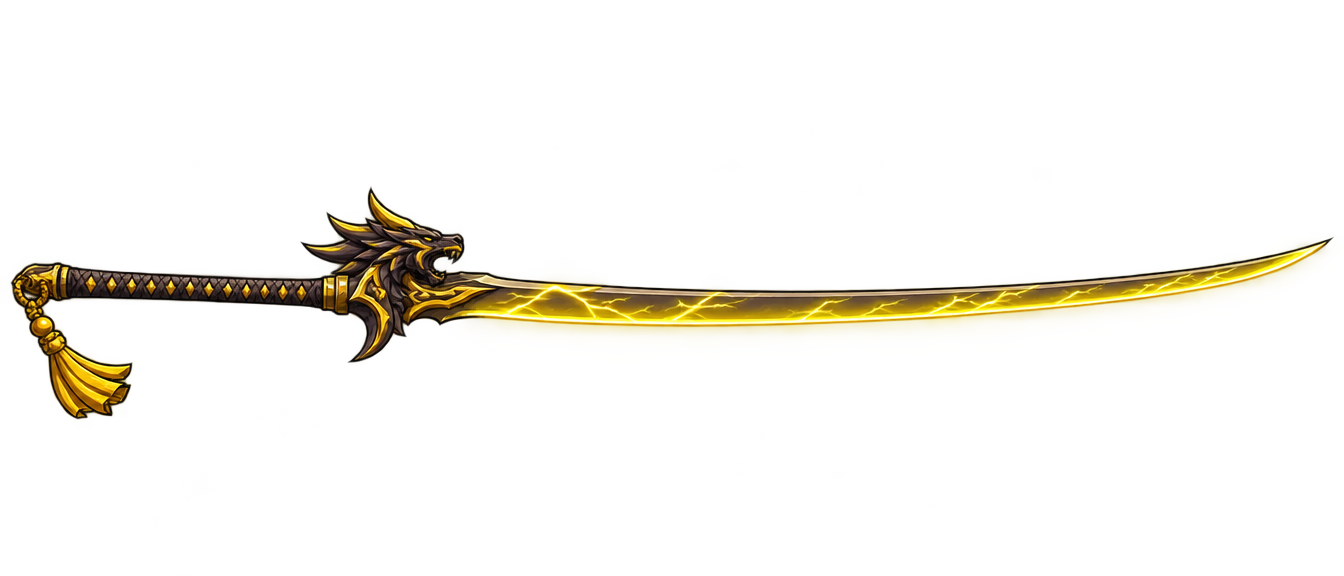
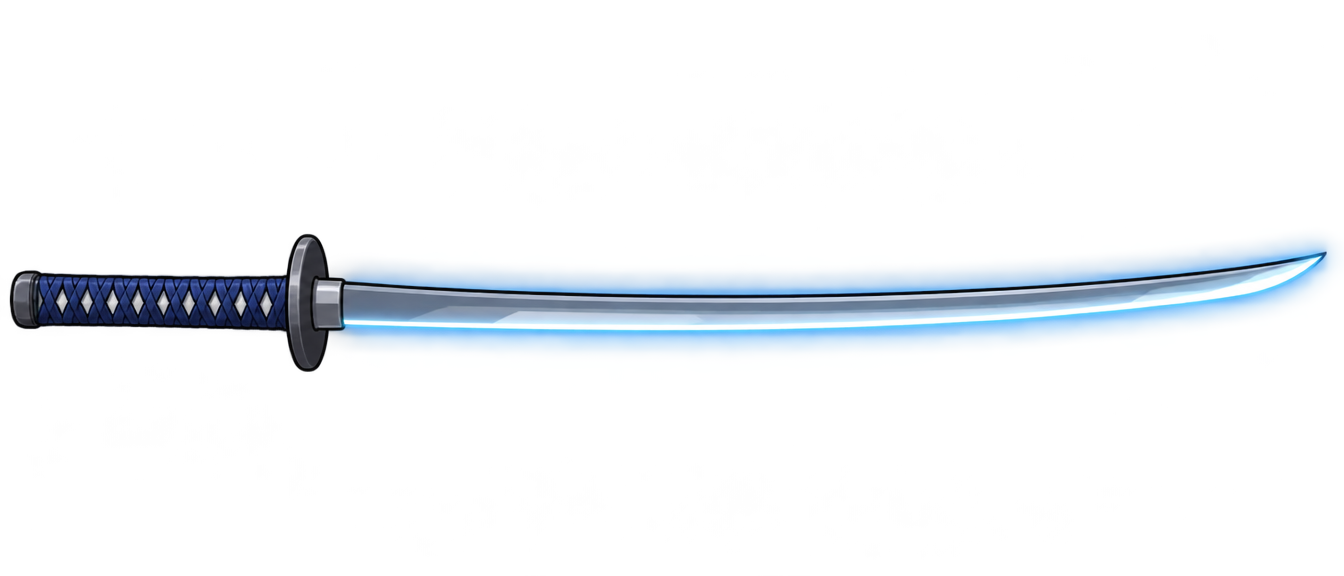
feat: 무기 Q 스킬 — 3식 제미니(분신·공간 가르기)·정화의 불길(사방 레이저), 라스알히게 푸른 태도

Changed region(s): [[0.0, 0.3438, 1.0, 0.7188]]

diff --git a/src/scenes/run/weaponSkills.ts b/src/scenes/run/weaponSkills.ts
@@ -1,0 +1,198 @@
+/**
+ * 무기 Q 스킬 (weapons.json qSkill). 재사용 대기는 무기마다 따로 센다.
+ * - 3식 제미니(라스알하게의 검): 둘레에 푸른 분신이 나타나 본체와 함께 strikes번 벤다. 마지막 베기는 공간격 +
+ *   케라우노스처럼 화면이 벤 선을 따라 갈라졌다가 봉합된다.
+ * - 정화의 불길(아비오르의 지팡이): 사방으로 불길을 내뿜으며 굵은 직선 레이저를 난사한다. 한 번에 beams줄을 고르게,
+ *   다음 번에는 반 칸 돌려 쏴서 레이저끼리 겹치지 않고 옆면만 맞닿는다.
+ */
+import Phaser from 'phaser';
+import type { Vec2 } from '../../core/actions';
+import { hexColor } from '../../core/scale';
+import { startSpaceRift } from '../../entities/spaceCutFx';
+import { shake } from '../../entities/juice';
+import { playFx, tintedFx } from '../../skills/skillFx';
+import { animKey } from '../../systems/art';
+import { lineHits } from '../../systems/targeting';
+import { inArc, type WeaponStats } from '../../systems/weapons';
+import type { TagId, WeaponDef, WeaponQSkill } from '../../types/data';
+import type { RunScene } from '../RunScene';
+import { sfx } from './shared';
+
+type Gemini = Extract<WeaponQSkill, { kind: 'gemini' }>;
+type Flame = Extract<WeaponQSkill, { kind: 'purifyingFlame' }>;
+
+export class WeaponSkills {
+  /** 무기 id → 남은 재사용 대기(초) */
+  private cd = new Map<string, number>();
+
+  constructor(private readonly run: RunScene) {}
+
+  update(dt: number): void {
+    for (const [id, s] of this.cd) this.cd.set(id, Math.max(0, s - dt));
+  }
+
+  /** 남은 재사용 대기 (HUD·토스트) */
+  cooldownOf(id: string): number {
+    return this.cd.get(id) ?? 0;
+  }
+
+  /** Q: 들고 있는 무기의 스킬을 쓴다. 이 무기에 스킬이 있으면 true(재사용 대기 중이어도) */
+  use(w: WeaponDef): boolean {
+    const q = w.qSkill;
+    if (!q) return false;
+    const left = this.cooldownOf(w.id);
+    if (left > 0) {
+      this.run.toastThrottled(this.run.ctx.t('weapon.qCooldown', { name: this.run.ctx.t(q.nameKey), s: Math.ceil(left) }));
+      return true;
+    }
+    this.cd.set(w.id, q.cooldownSec);
+    const st = this.run.weaponStatsOf(this.run.weaponItem());
+    this.run.floatLabel({ x: this.run.player.x, y: this.run.player.y }, this.run.ctx.t(q.nameKey), q.color);
+    if (q.kind === 'gemini') this.gemini(w, q, st);
+    else this.purifyingFlame(w, q, st);
+    return true;
+  }
+
+  // ---------- 3식 제미니 ----------
+
+  private gemini(w: WeaponDef, q: Gemini, st: WeaponStats): void {
+    const p = this.run.player;
+    const color = hexColor(q.color);
+    // 분신: 본체 둘레에 고르게, 푸른 빛으로 물든 모습이 번쩍이며 나타난다
+    const clones: Phaser.GameObjects.Image[] = [];
+    for (let i = 0; i < q.clones; i++) {
+      const a = (i / q.clones) * Math.PI * 2 + Math.PI / 2;
+      const c = this.run.add
+        .image(p.x + Math.cos(a) * q.cloneDistPx, p.y + Math.sin(a) * q.cloneDistPx * 0.6, p.texture.key, p.frame.name)
+        .setOrigin(p.originX, p.originY)
+        .setScale(p.scaleX, p.scaleY)
+        .setTint(color)
+        .setBlendMode(Phaser.BlendModes.ADD)
+        .setAlpha(0)
+        .setDepth(5);
+      this.run.tweens.add({ targets: c, alpha: 0.75, duration: 120 });
+      clones.push(c);
+    }
+    sfx('awaken');
+    for (let k = 0; k < q.strikes; k++) {
+      this.run.time.delayedCall((0.12 + k * q.gapSec) * 1000, () => this.geminiStrike(w, q, st, clones, k === q.strikes - 1));
+    }
+    this.run.time.delayedCall((0.12 + q.strikes * q.gapSec + 0.25) * 1000, () => {
+      for (const c of clones) this.run.tweens.add({ targets: c, alpha: 0, duration: 200, onComplete: () => c.destroy() });
+    });
+  }
+
+  /** 한 번 베기: 본체와 분신이 각자 가장 가까운 적(없으면 조준 방향) 쪽으로 */
+  private geminiStrike(w: WeaponDef, q: Gemini, st: WeaponStats, clones: Phaser.GameObjects.Image[], last: boolean): void {
+    const p = this.run.player;
+    const bodies: Vec2[] = [{ x: p.x, y: p.y }, ...clones.filter((c) => c.active).map((c) => ({ x: c.x, y: c.y }))];
+    const arc = w.pattern.kind === 'arc' ? w.pattern : { arcDeg: 150, radius: 56 };
+    const radius = arc.radius * q.radiusMul * (1 + this.run.itemRt.sums.area);
+    const fx = this.run.ctx.data.weapons.meleeFx;
+    const tags: readonly TagId[] = last ? [...w.tags, 'space'] : w.tags;
+    const base = st.damage * q.damageMul;
+    let riftDone = false;
+    bodies.forEach((b, i) => {
+      const target = this.nearest(b);
+      const ang = target ? Math.atan2(target.y - b.y, target.x - b.x) : Math.atan2(this.run.aimDir.y, this.run.aimDir.x);
+      const dir = { x: Math.cos(ang), y: Math.sin(ang) };
+      const clone = i > 0 ? clones[i - 1] : null;
+      // 분신은 베는 쪽으로 몸을 내밀었다 돌아온다
+      if (clone) {
+        clone.setFlipX(dir.x < 0);
+        this.run.tweens.add({ targets: clone, x: clone.x + dir.x * 6, y: clone.y + dir.y * 6, duration: 70, yoyo: true });
+      }
+      if (!last) {
+        const enemies = this.run.enemies.filter((e) => !e.dead && inArc(b, ang, arc.arcDeg, radius, e.sprite, e.radius));
+        tintedFx(this.run, this.run.combat.tierFx(fx.slashTiers, w, true), b.x + dir.x * radius * 0.5, b.y + dir.y * radius * 0.5, hexColor(q.color), { w: radius * 1.5, rotation: ang, depth: 7 });
+        for (const e of enemies) this.run.damage.hit(e, this.run.combat.critRoll(base, st.critChance, e.sprite), tags);
+        return;
+      }
+      // 마지막: 벤 선을 따라 공간이 갈라진다 (선 위 적에게 공간격)
+      const len = q.spaceLength * (1 + this.run.itemRt.sums.area);
+      const a = { x: b.x - dir.x * len * 0.2, y: b.y - dir.y * len * 0.2 };
+      const end = { x: b.x + dir.x * len, y: b.y + dir.y * len };
+      const enemies = this.run.enemies.filter((e) => !e.dead);
+      const hits = lineHits(a, dir, len * 1.2, q.spaceWidth / 2, enemies.map((e) => ({ x: e.sprite.x, y: e.sprite.y, radius: e.radius })));
+      this.spaceSlash(q, a, end, !riftDone);
+      riftDone = true;
+      for (const h of hits) {
+        const e = enemies[h]!;
+        this.run.damage.hit(e, this.run.combat.critRoll(base, st.critChance, e.sprite), tags);
+      }
+    });
+    sfx(last ? 'crit' : 'swing');
+    shake(this.run, last ? 'medium' : 'light');
+  }
+
+  /** 공간 베기 연출: 절단 그림 3단계 + (rift면) 화면 전체가 선을 따라 갈라졌다가 봉합 */
+  spaceSlash(q: Gemini, a: Vec2, b: Vec2, rift: boolean): void {
+    const ang = Math.atan2(b.y - a.y, b.x - a.x);
+    const len = Math.hypot(b.x - a.x, b.y - a.y);
+    const mid = { x: (a.x + b.x) / 2, y: (a.y + b.y) / 2 };
+    if (rift && startSpaceRift(this.run, q.spaceCut, q.rift, mid, ang)) this.run.hitStop.request(q.spaceCut.hitStopSec);
+    q.cut.forEach((ref, i) => {
+      this.run.time.delayedCall(i * 70, () => playFx(this.run, ref, mid.x, mid.y, { w: len, h: q.spaceWidth * 3, rotation: ang, fadeSec: 0.25 }).setAlpha(0.85));
+    });
+    const g = this.run.add.graphics().setDepth(7).setBlendMode(Phaser.BlendModes.ADD);
+    g.lineStyle(q.spaceWidth * 0.6, hexColor(q.color), 0.6).lineBetween(a.x, a.y, b.x, b.y);
+    g.lineStyle(2, 0xffffff, 1).lineBetween(a.x, a.y, b.x, b.y);
+    this.run.tweens.add({ targets: g, alpha: 0, duration: 320, onComplete: () => g.destroy() });
+    this.run.cameras.main.flash(90, 170, 210, 255);
+  }
+
+  private nearest(from: Vec2): Vec2 | null {
+    let best: Vec2 | null = null;
+    let d = Infinity;
+    for (const e of this.run.enemies) {
+      if (e.dead) continue;
+      const k = Math.hypot(e.sprite.x - from.x, e.sprite.y - from.y);
+      if (k < d) {
+        d = k;
+        best = { x: e.sprite.x, y: e.sprite.y };
+      }
+    }
+    return best;
+  }
+
+  // ---------- 정화의 불길 ----------
+
+  private purifyingFlame(w: WeaponDef, q: Flame, st: WeaponStats): void {
+    const volleys = Math.max(1, Math.round(q.durationSec / q.volleySec));
+    const step = (Math.PI * 2) / q.beams;
+    const start = this.run.rng.range(0, step);
+    sfx('shotLaser');
+    for (let v = 0; v < volleys; v++) {
+      this.run.time.delayedCall(v * q.volleySec * 1000, () => {
+        if (this.run.session.outcome) return;
+        const p = { x: this.run.player.x, y: this.run.player.y };
+        // 번갈아 반 칸 돌린다: 이번 줄은 지난 줄 사이를 채운다
+        const off = start + (v % 2) * step * 0.5;
+        for (let i = 0; i < q.beams; i++) this.run.combat.weaponLaser(w, st.damage * q.beamDamageMul, st.critChance, off + i * step, q.beamLength, q.beamWidth);
+        this.flames(w, q, st, p);
+        shake(this.run, 'light');
+        if (v % 2 === 0) sfx('shotLaser');
+      });
+    }
+  }
+
+  /** 사방으로 퍼지는 불길: 반지름 안 적에게 피해 + 화상 */
+  private flames(w: WeaponDef, q: Flame, st: WeaponStats, p: Vec2): void {
+    const r = q.flameRadius * (1 + this.run.itemRt.sums.area);
+    const color = hexColor(q.color);
+    const n = 14;
+    for (let i = 0; i < n; i++) {
+      const a = (i / n) * Math.PI * 2 + this.run.rng.range(-0.15, 0.15);
+      const sp = this.run.add.sprite(p.x, p.y, q.flame.spriteKey).setDepth(6).setTint(color).setRotation(a).setBlendMode(Phaser.BlendModes.ADD);
+      sp.setDisplaySize(q.flame.size, q.flame.size);
+      const key = animKey(q.flame.spriteKey, 'play');
+      if (this.run.anims.exists(key)) sp.play(key);
+      this.run.tweens.add({ targets: sp, x: p.x + Math.cos(a) * r, y: p.y + Math.sin(a) * r, scale: sp.scale * 2.2, alpha: 0, duration: 380, ease: 'Quad.easeOut', onComplete: () => sp.destroy() });
+    }
+    const host = this.run.skillRt.hostFor('weapon');
+    for (const e of [...this.run.enemies]) {
+      if (e.dead || Math.hypot(e.sprite.x - p.x, e.sprite.y - p.y) > r + e.radius) continue;
+      if (!this.run.damage.hit(e, st.damage * q.flameDamageMul, w.tags)) host.burn(e, q.burnStacks);
+    }
+  }
+}

diff --git a/src/types/data/weapons.ts b/src/types/data/weapons.ts
@@ -1,5 +1,6 @@
 import type { IntRange, TagId, GradeId, SpriteRef } from './common';
 import type { CodexLore } from './enemies';
+import type { RiftDef, SpaceCutDef } from './skills';
 
 // ---------- 무기 ----------
 
@@ -147,6 +148,8 @@ export interface WeaponDef extends SpriteRef {
    */
   /** 민타카의 쌍성 지팡이: phaseSec마다 주성↔반성, 무기 특수공격으로 align(둘을 겹친 식 최대)을 sec 동안 */
   twinStar?: { phaseSec: number; primary: TwinStarMode; eclipse: TwinStarMode; align: TwinStarMode & { sec: number; cooldownSec: number; burst: SpriteRef; color: string } };
+  /** 무기 특수공격(Q) 스킬 */
+  qSkill?: WeaponQSkill;
   beam?: {
     length: number;
     width: number;
@@ -223,3 +226,10 @@ export interface WeaponsData {
   options: WeaponOptionDef[];
   weapons: WeaponDef[];
 }
+
+/** 무기 Q 스킬 */
+export type WeaponQSkill =
+  /** 3식 제미니(라스알하게의 검): 둘레에 분신 clones기가 나타나 함께 strikes번 벤다. 마지막 베기는 공간격(화면이 갈라진다) */
+  | { kind: 'gemini'; nameKey: string; descKey: string; cooldownSec: number; clones: number; strikes: number; gapSec: number; damageMul: number; radiusMul: number; cloneDistPx: number; color: string; spaceLength: number; spaceWidth: number; spaceCut: SpaceCutDef; rift: RiftDef; cut: SpriteRef[] }
+  /** 정화의 불길(아비오르의 지팡이): durationSec 동안 volleySec마다 사방으로 불길 + 굵은 직선 레이저 beams줄(번갈아 반 칸씩 돌려 옆면이 맞닿게) */
+  | { kind: 'purifyingFlame'; nameKey: string; descKey: string; cooldownSec: number; durationSec: number; volleySec: number; beams: number; beamLength: number; beamWidth: number; beamDamageMul: number; flameRadius: number; flameDamageMul: number; burnStacks: number; color: string; flame: SpriteRef };

diff --git a/src/scenes/RunScene.ts b/src/scenes/RunScene.ts
@@ -13,6 +13,7 @@ import { Encounters } from './run/encounters';
 import { Progression } from './run/progression';
 import { WeaponCombat } from './run/weaponCombat';
 import { SpecialWeapons } from './run/specialWeapons';
+import { WeaponSkills } from './run/weaponSkills';
 import { StageFx } from './run/stageFx';
 import { RoarAura } from './run/roarAura';
 import { PlayerCondition } from './run/playerCondition';
@@ -74,6 +75,7 @@ export class RunScene extends Phaser.Scene {
   damage!: DamageRuntime;
   meleeRt!: MeleeAttack;
   special!: SpecialWeapons;
+  weaponSkills!: WeaponSkills;
   progression!: Progression;
   encounters!: Encounters;
   skillRt!: SkillRuntime;
@@ -179,6 +181,7 @@ export class RunScene extends Phaser.Scene {
     this.ctx = getContext();
     const d = this.ctx.data;
     this.special = new SpecialWeapons(this);
+    this.weaponSkills = new WeaponSkills(this);
     this.roarAura = new RoarAura(this);
     this.bulletRt = new BulletRuntime(this);
     this.roomRt = new RoomRuntime(this);
@@ -557,6 +560,7 @@ export class RunScene extends Phaser.Scene {
     // 무기 특수공격 (Q): 지금은 공간봉합침 회수
     if (frame.pressed.has('weaponSpecial')) this.useWeaponSpecial();
     this.special.update(dt);
+    this.weaponSkills.update(dt);
 
     // 스킬
     // 광전사의 진노: 스킬 쿨타임이 더 빨리 돈다 (궁극기 대기는 그대로)
@@ -644,6 +648,7 @@ export class RunScene extends Phaser.Scene {
     const def = this.weaponDef();
     if (def.needle && this.special.recallNeedles(def)) return;
     if (def.twinStar && this.special.alignTwinStar(def)) return;
+    if (this.weaponSkills.use(def)) return;
     this.toastThrottled(this.ctx.t(def.needle ? 'weapon.noNeedles' : 'weapon.noSpecial'));
   }
 

diff --git a/src/scenes/UIScene.ts b/src/scenes/UIScene.ts
@@ -112,8 +112,9 @@ export class UIScene extends Phaser.Scene {
         // 무기 특수공격 버튼: 특수공격이 있는 무기면 그 이름, 없으면 흐리게
         const held = activeWeapon(s.player.weapons);
         const special = held ? this.ctx.data.weapons.weapons.find((w) => w.id === held.defId) : undefined;
-        const has = !!special?.needle || !!special?.twinStar;
-        this.ctx.touch.setLabel('weaponSpecial', has ? this.ctx.t(special!.abilityNameKey!) : this.ctx.t('mobile.special'));
+        const has = !!special?.needle || !!special?.twinStar || !!special?.qSkill;
+        const label = special?.qSkill ? special.qSkill.nameKey : special?.abilityNameKey;
+        this.ctx.touch.setLabel('weaponSpecial', has && label ? this.ctx.t(label) : this.ctx.t('mobile.special'));
         this.ctx.touch.setDisabled('weaponSpecial', !has);
       }
     }

diff --git a/src/data/validate/combat.ts b/src/data/validate/combat.ts
@@ -167,6 +167,14 @@ export function validateWeapons(v: V): void {
     if (wpn.shot) checkSprite(errors, `${w}.shot`, wpn.shot);
     if (wpn.fireFlash) checkSprite(errors, `${w}.fireFlash`, wpn.fireFlash);
     if (wpn.lobBlast) checkSprite(errors, `${w}.lobBlast`, wpn.lobBlast);
+    if (wpn.qSkill) {
+      const q = wpn.qSkill;
+      checkPositive(errors, `${w}.qSkill.cooldownSec`, q.cooldownSec);
+      needText(`${w}.qSkill`, q.nameKey);
+      needText(`${w}.qSkill`, q.descKey);
+      if (q.kind === 'gemini') q.cut.forEach((c, i) => checkSprite(errors, `${w}.qSkill.cut.${i}`, c));
+      else checkSprite(errors, `${w}.qSkill.flame`, q.flame);
+    }
     if (wpn.boomerang) {
       checkSprite(errors, `${w}.boomerang.shot`, wpn.boomerang.shot);
       if (wpn.boomerang.charges < 1) errors.push(`${w}.boomerang.charges: 1 이상`);

diff --git a/src/scenes/run/meleeAttack.ts b/src/scenes/run/meleeAttack.ts
@@ -74,6 +74,8 @@ export class MeleeAttack {
     this.run.time.delayedCall(ia.cutDelaySec * 1000, () => {
       streak.destroy();
       const tags: readonly TagId[] = sig?.kind === 'space' ? [...w.tags, 'space'] : w.tags;
+      // 공간격 차례: 벤 길을 따라 공간이 갈라진다 (3식 제미니와 같은 연출)
+      if (sig?.kind === 'space' && w.qSkill?.kind === 'gemini') this.run.weaponSkills.spaceSlash(w.qSkill, from, to, true);
       const enemies = this.run.enemies.filter((e) => !e.dead);
       const hits = lineHits(from, dir, len, ia.width / 2, enemies.map((e) => ({ x: e.sprite.x, y: e.sprite.y, radius: e.radius })));
       const lined = new Set(lineHits(from, dir, len, ia.width / 2, this.run.roomProps.breakables.map((b) => ({ x: b.x, y: b.y, radius: 6 }))).map((i) => this.run.roomProps.breakables[i]!));

diff --git a/src/ui/weaponInfo.ts b/src/ui/weaponInfo.ts
@@ -48,6 +48,11 @@ export function weaponInfoLines(ctx: GameContext, item: WeaponItem): WeaponInfoL
   }
   if (def.pattern.kind === 'meteor') out.push({ text: t('weapon.sigDesc.meteor'), sig: true });
   if (def.pattern.kind === 'nova') out.push({ text: t('weapon.sigDesc.nova'), sig: true });
+  if (def.qSkill) {
+    const title = t(def.qSkill.nameKey);
+    const desc = t(def.qSkill.descKey, { cd: def.qSkill.cooldownSec });
+    out.push({ text: t('weapon.qLine', { title, desc }), sig: true, title, desc });
+  }
   if (def.selfHarm) out.push(main(t('weapon.sigDesc.selfHarm', { pct: Math.round(def.selfHarm.chance * 100), dmg: def.selfHarm.damage })));
   if (def.pierce) out.push({ text: t('weapon.sigDesc.pierce'), sig: true });
   if (def.flame) out.push({ text: t('weapon.sigDesc.flame'), sig: true });

diff --git a/tests/codex.test.ts b/tests/codex.test.ts
@@ -29,9 +29,9 @@ describe('도감', () => {
     for (const e of withFlavor) expect(D.text[e.flavor!], e.id).toBeTypeOf('string');
     expect(D.enemies.enemies.find((e) => e.id === 'royalMage')?.flavor).toBeUndefined();
   });
-  it('아이템·무기 플레이버 문구 53종이 모두 ko.json에 있다', () => {
+  it('아이템·무기 플레이버 문구 55종이 모두 ko.json에 있다', () => {
     const withFlavor = [...D.items.items, ...D.weapons.weapons].filter((x) => x.flavor);
-    expect(withFlavor).toHaveLength(53);
+    expect(withFlavor).toHaveLength(55);
     for (const x of withFlavor) expect(D.text[x.flavor!], x.id).toBeTypeOf('string');
   });
   it('모든 일반 적 공격과 보스 패턴에 도감 설명이 있다', () => {

diff --git a/docs/DECISIONS.md b/docs/DECISIONS.md
@@ -839,3 +839,5 @@
 - 2026-11-23: 신규 무기(수치 임시): 딱총나무 지팡이(전설, 지팡이, 매 공격 가장 가까운 적 쪽 관통 레이저 — 고대 핵과 같은 signature laser every 1, 피해 16·간격 0.55·에너지 3·길이 280). 불안정 마기 조각(레어, 지팡이, 새 패턴 nova: 몸 둘레 반지름 56 안 적 모두 피해 9·간격 0.7·에너지 3, 그림은 휘강파 반발 파동, 쏠 때마다 10% 확률로 자신도 피해 3 — selfHarm). 도감 37·38, 분류 임시: 고대의 유물·뒷골목 물건. 그림은 힉스필드.
 - 2026-11-23: 히든보스 유니크 무기(라스알게티의 몽둥이·아비오르의 지팡이·라스알하게의 검)를 droppable로: 상자·상인의 유니크 뽑기에서도 나온다(히든보스 보상 상자는 그대로). 아비오르의 지팡이·라스알하게의 검 그림을 힉스필드로 다시 그렸다(라스알하게는 아주 긴 태도). 두 무기에 플레이버를 붙였다.
 - 2026-11-23: 순간이동 전투 중 탈출 막기는 사용자 확인으로 유지(잠긴 방 안에서는 그 방 바닥 안으로만).
+- 2026-11-23: 무기 Q 스킬(weapons.json qSkill, scenes/run/weaponSkills.ts, 무기마다 재사용 대기, 수치 임시). 3식 제미니(라스알히게의 검, 10초): 둘레에 푸른 분신 2기가 나타나 본체와 함께 0.22초 간격 3번 벤다(각자 가장 가까운 적 쪽, 반지름 ×1.3, 피해 ×1.2). 마지막 베기는 길이 150 직선 공간격 + 케라우노스 균열(화면이 벤 선을 따라 갈라졌다 봉합, 절단 그림 3단계). 검의 3타째 발도 공간격에도 같은 갈라짐을 붙였다. 정화의 불길(아비오르의 지팡이, 14초): 2초 동안 0.25초마다 사방 불길(반지름 64, 피해 ×0.6·화상 1)과 굵은 직선 레이저 16줄(피해 ×0.8, 길이 170). 줄마다 반 칸씩 돌려 쏴 옆면이 맞닿는다.
+- 2026-11-23: 라스알히게의 검 그림을 푸른 기본 태도로 다시(힉스필드), 무기·참격 색도 푸르게(#4a9aff·#8ac8ff). 플레이버: 사용자 문구. 아비오르의 지팡이 플레이버는 기획서에 아르고 원정대·남십자결사대 설정이 없어 별 이름만으로 지었다(사용자 확인 필요).

diff --git a/docs/ASSETS.md b/docs/ASSETS.md
@@ -39,7 +39,7 @@
 | `weapon_handi` | 신궁 환디 | 12×12 | center | #ff3b3b | mku/weapon_handi.png (1프레임) |
 | `weapon_rasalgethi_club` | 라스알게티의 곤봉 | 11×11 | center | #b0583a | mku/weapon_rasalgethi_club.png (1프레임) |
 | `weapon_avior_staff` | 아비오르의 지팡이 | 11×11 | center | #8a6aff | mku/weapon_avior_staff.png (1프레임) |
-| `weapon_rasalhague_sword` | 라스알히게의 검 | 11×11 | center | #e8d24a | mku/weapon_rasalhague_sword.png (1프레임) |
+| `weapon_rasalhague_sword` | 라스알히게의 검 | 11×11 | center | #4a9aff | mku/weapon_rasalhague_sword.png (1프레임) |
 | `weapon_broken_blade` | 부러진 칼날 | 6×6 | center | #b8bcc8 | mku/weapon_broken_blade.png (1프레임) |
 | `weapon_hanabi` | 한아비 | 11×11 | center | #ffb04a | mku/weapon_hanabi.png (1프레임) |
 | `weapon_al_gul_blade` | 알 굴 참마검 | 11×11 | center | #c8ccd8 | mku/weapon_al_gul_blade.png (1프레임) |

diff --git a/docs/PROGRESS.md b/docs/PROGRESS.md
@@ -353,3 +353,4 @@
 - [x] 직업 스킬 파일(전사·성기사·광전사·마기법사 등)은 클래스 모양만 비슷하고 같은 코드가 되풀이되지 않아 그대로 둠
 - [x] 마기법사 손질: 마기 파동·빙창·얼음 보주 수치, 화염벽 전진, 원소 가호 보호막, 대합주 독주, 순간이동(커서·벽 넘기), 점화 풀중첩 추가 피해, 도감 각인, 집행 의지체 새 그림·등장·공격 동작, 순수 전개 개편·원소 정령
 - [x] 아이템 마력이 담긴 돌·회색 아령, 무기 딱총나무 지팡이·불안정 마기 조각, 히든보스 무기 필드 드랍, 아비오르·라스알하게 새 그림
+- [x] 무기 Q 스킬: 3식 제미니(라스알히게의 검)·정화의 불길(아비오르의 지팡이), 공간격 화면 갈라짐, 라스알히게 푸른 태도 그림
